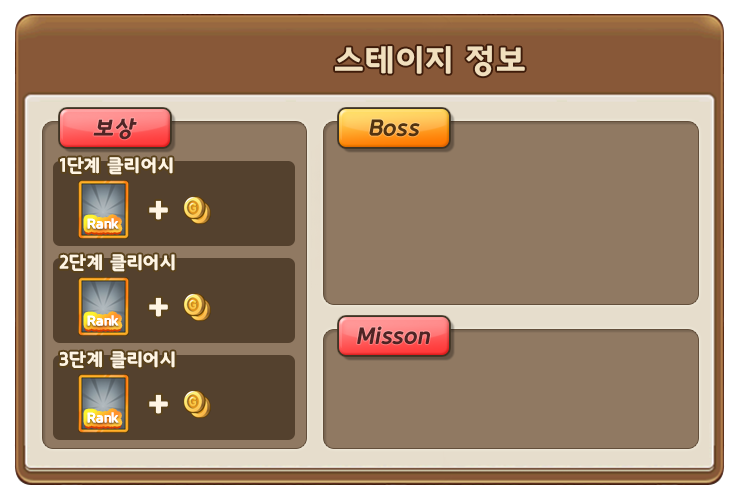
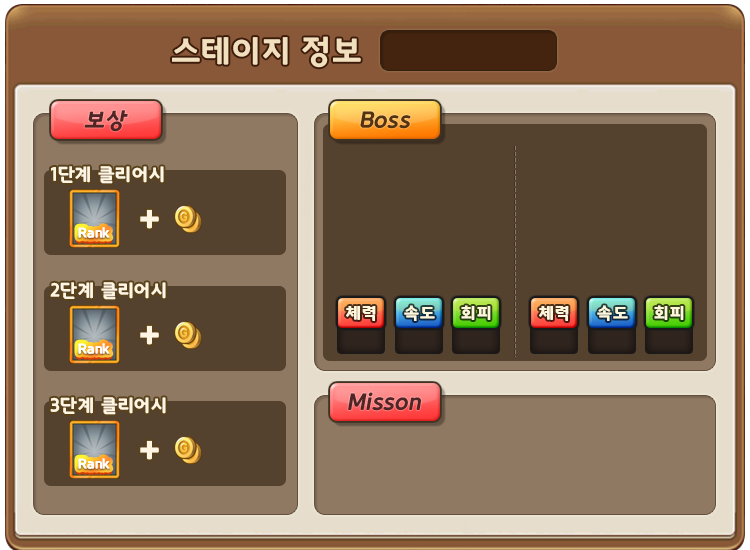
스테이지 정보 창 수정

diff --git a/Classes/CumberShowWindow.cpp b/Classes/CumberShowWindow.cpp
@@ -59,8 +59,7 @@ bool CumberShowWindow::init(int ss)
 		{
 			this->addChild(m_circleSprite);
 			m_circleSprite->setScale(0.7f);
-			if(juniorJson.size() > 0)
-				m_circleSprite->setPosition(ccp(-40,0));
+			m_circleSprite->setPosition(ccp(-49,0));
 		}
 	}
 	else if(bossShape == "snake")
@@ -73,8 +72,7 @@ bool CumberShowWindow::init(int ss)
 		m_snakeNode = KSSnakeBase::create(ccbiname2, false);
 		addChild(m_snakeNode, 1000);
 		m_snakeNode->setScale(0.7f);
-		if(juniorJson.size() > 0)
-			m_snakeNode->setPosition(ccp(-40,0));
+		m_snakeNode->setPosition(ccp(-49,0));
 		
 		m_snakeNode->startAnimationNoDirection();
 //		CCNodeLoaderLibrary* nodeLoader = CCNodeLoaderLibrary::sharedCCNodeLoaderLibrary();
@@ -111,9 +109,24 @@ bool CumberShowWindow::init(int ss)
 //			this->addChild(m_tailImg, lastZ - 1);
 //			reader->release();
 //		}
-		
-		
 	}
+	
+	int boss_hp = bossJson["hp"].asInt();
+	double boss_speed = bossJson["speed"]["start"].asDouble();
+	double boss_agi = bossJson.get("agi", 0).asDouble();
+	
+	CCLabelTTF* boss_hp_label = CCLabelTTF::create(CCString::createWithFormat("%d", boss_hp)->getCString(), mySGD->getFont().c_str(), 10);
+	boss_hp_label->setPosition(ccp(-78,-61));
+	addChild(boss_hp_label);
+	
+	CCLabelTTF* boss_speed_label = CCLabelTTF::create(CCString::createWithFormat("%.1f", boss_speed)->getCString(), mySGD->getFont().c_str(), 10);
+	boss_speed_label->setPosition(ccp(-49,-61));
+	addChild(boss_speed_label);
+	
+	CCLabelTTF* boss_agi_label = CCLabelTTF::create(CCString::createWithFormat("%.0f", boss_agi)->getCString(), mySGD->getFont().c_str(), 10);
+	boss_agi_label->setPosition(ccp(-20,-61));
+	addChild(boss_agi_label);
+	
 	
 	if(juniorJson.size() > 0)
 	{
@@ -151,16 +164,31 @@ bool CumberShowWindow::init(int ss)
 			{
 				this->addChild(m_juniorSprite, 1001);
 				m_juniorSprite->setScale(0.7f);
-				m_juniorSprite->setPosition(ccp(40, 0));
+				m_juniorSprite->setPosition(ccp(48, 0));
 				if(junior_cnt > 1)
 				{
-					CCLabelTTF* junior_count_label = CCLabelTTF::create(CCString::createWithFormat("x%d", junior_cnt)->getCString(), mySGD->getFont().c_str(), 30);
+					CCLabelTTF* junior_count_label = CCLabelTTF::create(CCString::createWithFormat("x%d", junior_cnt)->getCString(), mySGD->getFont().c_str(), 20);
 					junior_count_label->setAnchorPoint(ccp(0,0.5));
-					junior_count_label->setPosition(ccp(50,-20));
+					junior_count_label->setPosition(ccp(53,-20));
 					addChild(junior_count_label, 1002);
 				}
 			}
 		}
+		int junior_hp = juniorJson["hp"].asInt();
+		double junior_speed = juniorJson["speed"]["start"].asDouble();
+		double junior_agi = juniorJson.get("agi", 0).asDouble();
+		
+		CCLabelTTF* junior_hp_label = CCLabelTTF::create(CCString::createWithFormat("%d", junior_hp)->getCString(), mySGD->getFont().c_str(), 10);
+		junior_hp_label->setPosition(ccp(18,-61));
+		addChild(junior_hp_label);
+		
+		CCLabelTTF* junior_speed_label = CCLabelTTF::create(CCString::createWithFormat("%.1f", junior_speed)->getCString(), mySGD->getFont().c_str(), 10);
+		junior_speed_label->setPosition(ccp(48,-61));
+		addChild(junior_speed_label);
+		
+		CCLabelTTF* junior_agi_label = CCLabelTTF::create(CCString::createWithFormat("%.0f", junior_agi)->getCString(), mySGD->getFont().c_str(), 10);
+		junior_agi_label->setPosition(ccp(76,-61));
+		addChild(junior_agi_label);
 	}
 	
 //	std::string juniorType = juniorJson["type"].asString();

diff --git a/Classes/StageInfoPopup.cpp b/Classes/StageInfoPopup.cpp
@@ -104,9 +104,26 @@ void StageInfoPopup::setBack()
 	close_menu->setPosition(getContentPosition(kSIP_MT_close));
 	back_img->addChild(close_menu, kSIP_Z_content);
 	
-	CCLabelTTF* stage_label = CCLabelTTF::create(CCString::createWithFormat("%d - %d", NSDS_GI(stage_number, kSDS_SI_puzzle_i), stage_number)->getCString(), mySGD->getFont().c_str(), 20);
+	CCLabelTTF* stage_label = CCLabelTTF::create(CCString::createWithFormat("%d - %d", NSDS_GI(stage_number, kSDS_SI_puzzle_i), stage_number)->getCString(), mySGD->getFont().c_str(), 16);
 	stage_label->setPosition(getContentPosition(kSIP_MT_stageLabel));
 	back_img->addChild(stage_label, kSIP_Z_content);
+	
+	int found_puzzle_number = -1;
+	int puzzle_cnt = NSDS_GI(kSDS_GI_puzzleListCount_i);
+	for(int i=1;i<=puzzle_cnt && found_puzzle_number == -1;i++)
+	{
+		int puzzle_number = NSDS_GI(kSDS_GI_puzzleList_int1_no_i, i);
+		int start_stage = NSDS_GI(puzzle_number, kSDS_PZ_startStage_i);
+		int stage_count = NSDS_GI(puzzle_number, kSDS_PZ_stageCount_i);
+		
+		if(stage_number >= start_stage && stage_number < start_stage+stage_count)
+			found_puzzle_number = puzzle_number;
+	}
+	
+	CCLabelTTF* stage_level = CCLabelTTF::create(CCString::createWithFormat("난이도 %d", NSDS_GI(found_puzzle_number, kSDS_PZ_stage_int1_level_i, stage_number))->getCString(), mySGD->getFont().c_str(), 16);
+	stage_level->setPosition(ccpAdd(getContentPosition(kSIP_MT_stageLabel), ccp(175,0)));
+	back_img->addChild(stage_level, kSIP_Z_content);
+	
 	
 	int step1_card = NSDS_GI(stage_number, kSDS_SI_level_int1_card_i, 1);
 	int step2_card = NSDS_GI(stage_number, kSDS_SI_level_int1_card_i, 2);
@@ -190,25 +207,25 @@ CCPoint StageInfoPopup::getContentPosition( int t_tag )
 	CCPoint return_value;
 	
 	if(t_tag == kSIP_MT_close)
-		return_value = ccp(340, 223);
+		return_value = ccp(345, 253);
 	else if(t_tag == kSIP_MT_stageLabel)
-		return_value = ccp(125, 218);
+		return_value = ccp(60, 248);
 	else if(t_tag == kSIP_MT_step1Rank)
-		return_value = ccp(51, 148);
+		return_value = ccp(47, 168);
 	else if(t_tag == kSIP_MT_step2Rank)
-		return_value = ccp(51, 100);
+		return_value = ccp(47, 111);
 	else if(t_tag == kSIP_MT_step3Rank)
-		return_value = ccp(51, 51);
+		return_value = ccp(47, 53);
 	else if(t_tag == kSIP_MT_step1Reward)
-		return_value = ccp(130, 143);
+		return_value = ccp(130, 163);
 	else if(t_tag == kSIP_MT_step2Reward)
-		return_value = ccp(130, 95);
+		return_value = ccp(130, 106);
 	else if(t_tag == kSIP_MT_step3Reward)
-		return_value = ccp(130, 46);
+		return_value = ccp(130, 48);
 	else if(t_tag == kSIP_MT_monster)
-		return_value = ccp(260,140);
+		return_value = ccp(258,165);
 	else if(t_tag == kSIP_MT_mission)
-		return_value = ccp(262, 50);
+		return_value = ccp(260, 42);
 	
 	return return_value;
 }

diff --git a/Classes/CollectionBookPopup.cpp b/Classes/CollectionBookPopup.cpp
@@ -323,6 +323,7 @@ bool CollectionBookPopup::init()
 	input_text->setFont(mySGD->getFont().c_str(), 12);
 	input_text->setFontColor(ccBLACK);
 	input_text->setDelegate(this);
+	
     recent_right_img->addChild(input_text, kCBP_Z_cover);
 	
     if(input_data != "입력해주세요.")
